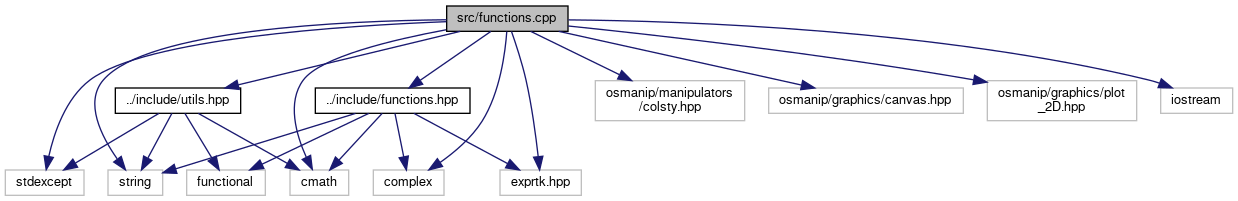
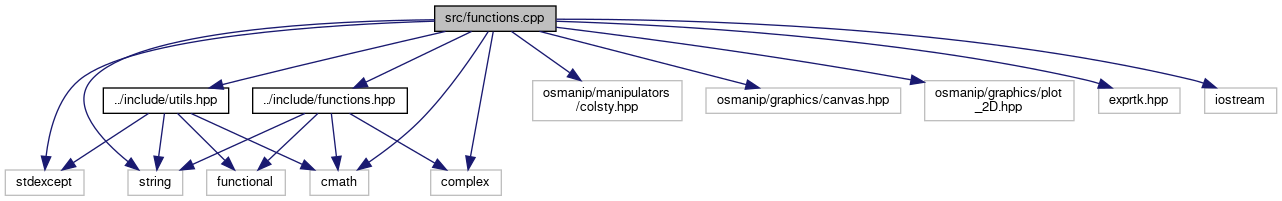
Update docs

diff --git a/docs/functions_8hpp_source.html b/docs/functions_8hpp_source.html
@@ -86,57 +86,56 @@ $(function() {
 <div class="line"><a name="l00013"></a><span class="lineno">   13</span>&#160;<span class="preprocessor">#include &lt;string&gt;</span></div>
 <div class="line"><a name="l00014"></a><span class="lineno">   14</span>&#160;<span class="preprocessor">#include &lt;cmath&gt;</span></div>
 <div class="line"><a name="l00015"></a><span class="lineno">   15</span>&#160;<span class="preprocessor">#include &lt;functional&gt;</span></div>
-<div class="line"><a name="l00016"></a><span class="lineno">   16</span>&#160;<span class="preprocessor">#include &lt;exprtk.hpp&gt;</span></div>
-<div class="line"><a name="l00017"></a><span class="lineno">   17</span>&#160; </div>
-<div class="line"><a name="l00018"></a><span class="lineno">   18</span>&#160;<span class="keyword">namespace </span><a class="code" href="namespacesafd.html">safd</a></div>
-<div class="line"><a name="l00019"></a><span class="lineno">   19</span>&#160; {</div>
-<div class="line"><a name="l00020"></a><span class="lineno">   20</span>&#160;  <span class="comment">//============================================</span></div>
-<div class="line"><a name="l00021"></a><span class="lineno">   21</span>&#160;  <span class="comment">//     Type aliases definition</span></div>
-<div class="line"><a name="l00022"></a><span class="lineno">   22</span>&#160;  <span class="comment">//============================================</span></div>
-<div class="line"><a name="l00023"></a><span class="lineno"><a class="line" href="namespacesafd.html#af18d6d8f6538e0141135af22cbf06139">   23</a></span>&#160;  <span class="keyword">using</span> <a class="code" href="namespacesafd.html#af18d6d8f6538e0141135af22cbf06139">two_param_func</a> = std::function&lt;double( <span class="keyword">const</span> <span class="keywordtype">int</span>&amp;, <span class="keyword">const</span> <span class="keywordtype">double</span>&amp; )&gt;;</div>
-<div class="line"><a name="l00024"></a><span class="lineno"><a class="line" href="namespacesafd.html#a145123804048dc5336c2e846dbf5fb31">   24</a></span>&#160;  <span class="keyword">using</span> <a class="code" href="namespacesafd.html#a145123804048dc5336c2e846dbf5fb31">four_param_func</a> = std::function&lt;double( <span class="keyword">const</span> std::string&amp;, <span class="keyword">const</span> <span class="keywordtype">int</span>&amp;, <span class="keyword">const</span> <span class="keywordtype">int</span>&amp;, <span class="keyword">const</span> <span class="keywordtype">double</span>&amp;, <span class="keyword">const</span> <span class="keywordtype">double</span>&amp; )&gt;;</div>
-<div class="line"><a name="l00025"></a><span class="lineno">   25</span>&#160; </div>
-<div class="line"><a name="l00026"></a><span class="lineno">   26</span>&#160;  <span class="comment">//============================================</span></div>
-<div class="line"><a name="l00027"></a><span class="lineno">   27</span>&#160;  <span class="comment">//     Global variables declaration</span></div>
-<div class="line"><a name="l00028"></a><span class="lineno">   28</span>&#160;  <span class="comment">//============================================</span></div>
-<div class="line"><a name="l00029"></a><span class="lineno"><a class="line" href="namespacesafd.html#a1e84d15b6feece8b88625a13e778156d">   29</a></span>&#160;  <span class="keyword">inline</span> <span class="keyword">const</span> <span class="keywordtype">double</span> <a class="code" href="namespacesafd.html#a1e84d15b6feece8b88625a13e778156d">reciprocalPi</a> = sqrt(1 / ( M_PI*4 ) );</div>
-<div class="line"><a name="l00030"></a><span class="lineno">   30</span>&#160; </div>
-<div class="line"><a name="l00031"></a><span class="lineno">   31</span>&#160;  <span class="comment">//============================================</span></div>
-<div class="line"><a name="l00032"></a><span class="lineno">   32</span>&#160;  <span class="comment">//     Functions declaration</span></div>
-<div class="line"><a name="l00033"></a><span class="lineno">   33</span>&#160;  <span class="comment">//============================================</span></div>
-<div class="line"><a name="l00034"></a><span class="lineno">   34</span>&#160;  </div>
-<div class="line"><a name="l00035"></a><span class="lineno">   35</span>&#160;  <span class="comment">//Legendre polynomials function:</span></div>
-<div class="line"><a name="l00036"></a><span class="lineno">   36</span>&#160;  <span class="keyword">extern</span> <span class="keywordtype">double</span> <a class="code" href="namespacesafd.html#ad98f25148508b1c2409f82b24230b1ac">Leg_pol</a>( <span class="keyword">const</span> <span class="keywordtype">int</span>&amp; a, <span class="keyword">const</span> <span class="keywordtype">double</span>&amp; x );</div>
-<div class="line"><a name="l00037"></a><span class="lineno">   37</span>&#160;  </div>
-<div class="line"><a name="l00038"></a><span class="lineno">   38</span>&#160;  <span class="comment">//Legendre associated function function:</span></div>
-<div class="line"><a name="l00039"></a><span class="lineno">   39</span>&#160;  <span class="keyword">extern</span> <span class="keywordtype">double</span> <a class="code" href="namespacesafd.html#aec90bc13ec65ee20a05844dc48b8a88f">Leg_func</a>( <span class="keyword">const</span> <span class="keywordtype">int</span>&amp; b, <span class="keyword">const</span> <span class="keywordtype">int</span>&amp; a, <span class="keyword">const</span> <span class="keywordtype">double</span>&amp; x );</div>
-<div class="line"><a name="l00040"></a><span class="lineno">   40</span>&#160;  </div>
-<div class="line"><a name="l00041"></a><span class="lineno">   41</span>&#160;  <span class="comment">//Spherical harmonics function:</span></div>
-<div class="line"><a name="l00042"></a><span class="lineno">   42</span>&#160;  <span class="keyword">extern</span> std::complex&lt;double&gt; <a class="code" href="namespacesafd.html#a758ac4642f176477df2b07c9522728dd">sph_arm</a>( <span class="keyword">const</span> <span class="keywordtype">int</span>&amp; m, <span class="keyword">const</span> <span class="keywordtype">int</span>&amp; l, <span class="keyword">const</span> <span class="keywordtype">double</span>&amp; theta, <span class="keyword">const</span> <span class="keywordtype">double</span>&amp; phi );</div>
-<div class="line"><a name="l00043"></a><span class="lineno">   43</span>&#160; </div>
-<div class="line"><a name="l00044"></a><span class="lineno">   44</span>&#160;  <span class="comment">//Parsed function:</span></div>
-<div class="line"><a name="l00045"></a><span class="lineno">   45</span>&#160;  <span class="keyword">extern</span> <span class="keywordtype">double</span> <a class="code" href="namespacesafd.html#a232d4d1ea5458710d60be29b98151b2f">parsed_f</a>( <span class="keyword">const</span> std::string&amp; expr, <span class="keywordtype">double</span> theta, <span class="keywordtype">double</span> phi );</div>
-<div class="line"><a name="l00046"></a><span class="lineno">   46</span>&#160;  </div>
-<div class="line"><a name="l00047"></a><span class="lineno">   47</span>&#160;  <span class="comment">//f(theta,phi) final function (which will be integrated), real part:</span></div>
-<div class="line"><a name="l00048"></a><span class="lineno">   48</span>&#160;  <span class="keyword">extern</span> <span class="keywordtype">double</span> <a class="code" href="namespacesafd.html#ac2a5ea1eaa1b6dd105c89eed6192f8c9">f_theta_phi_real</a>( <span class="keyword">const</span> std::string&amp; expr, <span class="keyword">const</span> <span class="keywordtype">int</span>&amp; m, <span class="keyword">const</span> <span class="keywordtype">int</span>&amp; l, <span class="keyword">const</span> <span class="keywordtype">double</span>&amp; theta, <span class="keyword">const</span> <span class="keywordtype">double</span>&amp; phi );</div>
-<div class="line"><a name="l00049"></a><span class="lineno">   49</span>&#160; </div>
-<div class="line"><a name="l00050"></a><span class="lineno">   50</span>&#160;  <span class="comment">//f(theta,phi) final function (which will be integrated), imaginary part:</span></div>
-<div class="line"><a name="l00051"></a><span class="lineno">   51</span>&#160;  <span class="keyword">extern</span> <span class="keywordtype">double</span> <a class="code" href="namespacesafd.html#af766ac12b4564ed1af366548ef9d4ea5">f_theta_phi_imag</a>( <span class="keyword">const</span> std::string&amp; expr, <span class="keyword">const</span> <span class="keywordtype">int</span>&amp; m, <span class="keyword">const</span> <span class="keywordtype">int</span>&amp; l, <span class="keyword">const</span> <span class="keywordtype">double</span>&amp; theta, <span class="keyword">const</span> <span class="keywordtype">double</span>&amp; phi );</div>
-<div class="line"><a name="l00052"></a><span class="lineno">   52</span>&#160;  </div>
-<div class="line"><a name="l00053"></a><span class="lineno">   53</span>&#160;  <span class="comment">//f_m_l coefficients representation:</span></div>
-<div class="line"><a name="l00054"></a><span class="lineno">   54</span>&#160;  <span class="keyword">extern</span> std::complex&lt;double&gt; <a class="code" href="namespacesafd.html#ace60dba2a96a269cbb84dbec8b9fc807">f_m_l</a>( <span class="keyword">const</span> std::string&amp; expr, <span class="keyword">const</span> <span class="keywordtype">int</span>&amp; m, <span class="keyword">const</span> <span class="keywordtype">int</span>&amp; l );</div>
-<div class="line"><a name="l00055"></a><span class="lineno">   55</span>&#160; </div>
-<div class="line"><a name="l00056"></a><span class="lineno">   56</span>&#160;  <span class="comment">//Function used to display the final result of the main program:</span></div>
-<div class="line"><a name="l00057"></a><span class="lineno">   57</span>&#160;  <span class="keyword">extern</span> <span class="keywordtype">void</span> <a class="code" href="namespacesafd.html#a5ea02ed9632434f9dfbc7ac0e33e38d7">displayer</a>( <span class="keyword">const</span> std::string&amp; equation, <span class="keyword">const</span> <span class="keywordtype">int</span>&amp; m, <span class="keyword">const</span> <span class="keywordtype">int</span>&amp; l );</div>
-<div class="line"><a name="l00058"></a><span class="lineno">   58</span>&#160; </div>
-<div class="line"><a name="l00059"></a><span class="lineno">   59</span>&#160;  <span class="comment">// Function used to plot the user-inserted function is input:</span></div>
-<div class="line"><a name="l00060"></a><span class="lineno">   60</span>&#160;  <span class="keyword">extern</span> <span class="keywordtype">void</span> <a class="code" href="namespacesafd.html#a762715ddd8cf72aead6b344b3645d9f1">plotter</a>( <span class="keyword">const</span> std::string&amp; func );</div>
-<div class="line"><a name="l00061"></a><span class="lineno">   61</span>&#160; }</div>
-<div class="line"><a name="l00062"></a><span class="lineno">   62</span>&#160;  </div>
-<div class="line"><a name="l00063"></a><span class="lineno">   63</span>&#160;<span class="preprocessor">#endif</span></div>
+<div class="line"><a name="l00016"></a><span class="lineno">   16</span>&#160; </div>
+<div class="line"><a name="l00017"></a><span class="lineno">   17</span>&#160;<span class="keyword">namespace </span><a class="code" href="namespacesafd.html">safd</a></div>
+<div class="line"><a name="l00018"></a><span class="lineno">   18</span>&#160; {</div>
+<div class="line"><a name="l00019"></a><span class="lineno">   19</span>&#160;  <span class="comment">//============================================</span></div>
+<div class="line"><a name="l00020"></a><span class="lineno">   20</span>&#160;  <span class="comment">//     Type aliases definition</span></div>
+<div class="line"><a name="l00021"></a><span class="lineno">   21</span>&#160;  <span class="comment">//============================================</span></div>
+<div class="line"><a name="l00022"></a><span class="lineno"><a class="line" href="namespacesafd.html#af18d6d8f6538e0141135af22cbf06139">   22</a></span>&#160;  <span class="keyword">using</span> <a class="code" href="namespacesafd.html#af18d6d8f6538e0141135af22cbf06139">two_param_func</a> = std::function&lt;double( <span class="keyword">const</span> <span class="keywordtype">int</span>&amp;, <span class="keyword">const</span> <span class="keywordtype">double</span>&amp; )&gt;;</div>
+<div class="line"><a name="l00023"></a><span class="lineno"><a class="line" href="namespacesafd.html#a145123804048dc5336c2e846dbf5fb31">   23</a></span>&#160;  <span class="keyword">using</span> <a class="code" href="namespacesafd.html#a145123804048dc5336c2e846dbf5fb31">four_param_func</a> = std::function&lt;double( <span class="keyword">const</span> std::string&amp;, <span class="keyword">const</span> <span class="keywordtype">int</span>&amp;, <span class="keyword">const</span> <span class="keywordtype">int</span>&amp;, <span class="keyword">const</span> <span class="keywordtype">double</span>&amp;, <span class="keyword">const</span> <span class="keywordtype">double</span>&amp; )&gt;;</div>
+<div class="line"><a name="l00024"></a><span class="lineno">   24</span>&#160; </div>
+<div class="line"><a name="l00025"></a><span class="lineno">   25</span>&#160;  <span class="comment">//============================================</span></div>
+<div class="line"><a name="l00026"></a><span class="lineno">   26</span>&#160;  <span class="comment">//     Global variables declaration</span></div>
+<div class="line"><a name="l00027"></a><span class="lineno">   27</span>&#160;  <span class="comment">//============================================</span></div>
+<div class="line"><a name="l00028"></a><span class="lineno"><a class="line" href="namespacesafd.html#a1e84d15b6feece8b88625a13e778156d">   28</a></span>&#160;  <span class="keyword">inline</span> <span class="keyword">const</span> <span class="keywordtype">double</span> <a class="code" href="namespacesafd.html#a1e84d15b6feece8b88625a13e778156d">reciprocalPi</a> = sqrt(1 / ( M_PI*4 ) );</div>
+<div class="line"><a name="l00029"></a><span class="lineno">   29</span>&#160; </div>
+<div class="line"><a name="l00030"></a><span class="lineno">   30</span>&#160;  <span class="comment">//============================================</span></div>
+<div class="line"><a name="l00031"></a><span class="lineno">   31</span>&#160;  <span class="comment">//     Functions declaration</span></div>
+<div class="line"><a name="l00032"></a><span class="lineno">   32</span>&#160;  <span class="comment">//============================================</span></div>
+<div class="line"><a name="l00033"></a><span class="lineno">   33</span>&#160;  </div>
+<div class="line"><a name="l00034"></a><span class="lineno">   34</span>&#160;  <span class="comment">//Legendre polynomials function:</span></div>
+<div class="line"><a name="l00035"></a><span class="lineno">   35</span>&#160;  <span class="keyword">extern</span> <span class="keywordtype">double</span> <a class="code" href="namespacesafd.html#ad98f25148508b1c2409f82b24230b1ac">Leg_pol</a>( <span class="keyword">const</span> <span class="keywordtype">int</span>&amp; a, <span class="keyword">const</span> <span class="keywordtype">double</span>&amp; x );</div>
+<div class="line"><a name="l00036"></a><span class="lineno">   36</span>&#160;  </div>
+<div class="line"><a name="l00037"></a><span class="lineno">   37</span>&#160;  <span class="comment">//Legendre associated function function:</span></div>
+<div class="line"><a name="l00038"></a><span class="lineno">   38</span>&#160;  <span class="keyword">extern</span> <span class="keywordtype">double</span> <a class="code" href="namespacesafd.html#aec90bc13ec65ee20a05844dc48b8a88f">Leg_func</a>( <span class="keyword">const</span> <span class="keywordtype">int</span>&amp; b, <span class="keyword">const</span> <span class="keywordtype">int</span>&amp; a, <span class="keyword">const</span> <span class="keywordtype">double</span>&amp; x );</div>
+<div class="line"><a name="l00039"></a><span class="lineno">   39</span>&#160;  </div>
+<div class="line"><a name="l00040"></a><span class="lineno">   40</span>&#160;  <span class="comment">//Spherical harmonics function:</span></div>
+<div class="line"><a name="l00041"></a><span class="lineno">   41</span>&#160;  <span class="keyword">extern</span> std::complex&lt;double&gt; <a class="code" href="namespacesafd.html#a758ac4642f176477df2b07c9522728dd">sph_arm</a>( <span class="keyword">const</span> <span class="keywordtype">int</span>&amp; m, <span class="keyword">const</span> <span class="keywordtype">int</span>&amp; l, <span class="keyword">const</span> <span class="keywordtype">double</span>&amp; theta, <span class="keyword">const</span> <span class="keywordtype">double</span>&amp; phi );</div>
+<div class="line"><a name="l00042"></a><span class="lineno">   42</span>&#160; </div>
+<div class="line"><a name="l00043"></a><span class="lineno">   43</span>&#160;  <span class="comment">//Parsed function:</span></div>
+<div class="line"><a name="l00044"></a><span class="lineno">   44</span>&#160;  <span class="keyword">extern</span> <span class="keywordtype">double</span> <a class="code" href="namespacesafd.html#a232d4d1ea5458710d60be29b98151b2f">parsed_f</a>( <span class="keyword">const</span> std::string&amp; expr, <span class="keywordtype">double</span> theta, <span class="keywordtype">double</span> phi );</div>
+<div class="line"><a name="l00045"></a><span class="lineno">   45</span>&#160;  </div>
+<div class="line"><a name="l00046"></a><span class="lineno">   46</span>&#160;  <span class="comment">//f(theta,phi) final function (which will be integrated), real part:</span></div>
+<div class="line"><a name="l00047"></a><span class="lineno">   47</span>&#160;  <span class="keyword">extern</span> <span class="keywordtype">double</span> <a class="code" href="namespacesafd.html#ac2a5ea1eaa1b6dd105c89eed6192f8c9">f_theta_phi_real</a>( <span class="keyword">const</span> std::string&amp; expr, <span class="keyword">const</span> <span class="keywordtype">int</span>&amp; m, <span class="keyword">const</span> <span class="keywordtype">int</span>&amp; l, <span class="keyword">const</span> <span class="keywordtype">double</span>&amp; theta, <span class="keyword">const</span> <span class="keywordtype">double</span>&amp; phi );</div>
+<div class="line"><a name="l00048"></a><span class="lineno">   48</span>&#160; </div>
+<div class="line"><a name="l00049"></a><span class="lineno">   49</span>&#160;  <span class="comment">//f(theta,phi) final function (which will be integrated), imaginary part:</span></div>
+<div class="line"><a name="l00050"></a><span class="lineno">   50</span>&#160;  <span class="keyword">extern</span> <span class="keywordtype">double</span> <a class="code" href="namespacesafd.html#af766ac12b4564ed1af366548ef9d4ea5">f_theta_phi_imag</a>( <span class="keyword">const</span> std::string&amp; expr, <span class="keyword">const</span> <span class="keywordtype">int</span>&amp; m, <span class="keyword">const</span> <span class="keywordtype">int</span>&amp; l, <span class="keyword">const</span> <span class="keywordtype">double</span>&amp; theta, <span class="keyword">const</span> <span class="keywordtype">double</span>&amp; phi );</div>
+<div class="line"><a name="l00051"></a><span class="lineno">   51</span>&#160;  </div>
+<div class="line"><a name="l00052"></a><span class="lineno">   52</span>&#160;  <span class="comment">//f_m_l coefficients representation:</span></div>
+<div class="line"><a name="l00053"></a><span class="lineno">   53</span>&#160;  <span class="keyword">extern</span> std::complex&lt;double&gt; <a class="code" href="namespacesafd.html#ace60dba2a96a269cbb84dbec8b9fc807">f_m_l</a>( <span class="keyword">const</span> std::string&amp; expr, <span class="keyword">const</span> <span class="keywordtype">int</span>&amp; m, <span class="keyword">const</span> <span class="keywordtype">int</span>&amp; l );</div>
+<div class="line"><a name="l00054"></a><span class="lineno">   54</span>&#160; </div>
+<div class="line"><a name="l00055"></a><span class="lineno">   55</span>&#160;  <span class="comment">//Function used to display the final result of the main program:</span></div>
+<div class="line"><a name="l00056"></a><span class="lineno">   56</span>&#160;  <span class="keyword">extern</span> <span class="keywordtype">void</span> <a class="code" href="namespacesafd.html#a5ea02ed9632434f9dfbc7ac0e33e38d7">displayer</a>( <span class="keyword">const</span> std::string&amp; equation, <span class="keyword">const</span> <span class="keywordtype">int</span>&amp; m, <span class="keyword">const</span> <span class="keywordtype">int</span>&amp; l );</div>
+<div class="line"><a name="l00057"></a><span class="lineno">   57</span>&#160; </div>
+<div class="line"><a name="l00058"></a><span class="lineno">   58</span>&#160;  <span class="comment">// Function used to plot the user-inserted function is input:</span></div>
+<div class="line"><a name="l00059"></a><span class="lineno">   59</span>&#160;  <span class="keyword">extern</span> <span class="keywordtype">void</span> <a class="code" href="namespacesafd.html#a762715ddd8cf72aead6b344b3645d9f1">plotter</a>( <span class="keyword">const</span> std::string&amp; func );</div>
+<div class="line"><a name="l00060"></a><span class="lineno">   60</span>&#160; }</div>
+<div class="line"><a name="l00061"></a><span class="lineno">   61</span>&#160;  </div>
+<div class="line"><a name="l00062"></a><span class="lineno">   62</span>&#160;<span class="preprocessor">#endif</span></div>
 <div class="ttc" id="anamespacesafd_html"><div class="ttname"><a href="namespacesafd.html">safd</a></div><div class="ttdef"><b>Definition:</b> functions.cpp:23</div></div>
-<div class="ttc" id="anamespacesafd_html_a145123804048dc5336c2e846dbf5fb31"><div class="ttname"><a href="namespacesafd.html#a145123804048dc5336c2e846dbf5fb31">safd::four_param_func</a></div><div class="ttdeci">std::function&lt; double(const std::string &amp;, const int &amp;, const int &amp;, const double &amp;, const double &amp;)&gt; four_param_func</div><div class="ttdef"><b>Definition:</b> functions.hpp:24</div></div>
-<div class="ttc" id="anamespacesafd_html_a1e84d15b6feece8b88625a13e778156d"><div class="ttname"><a href="namespacesafd.html#a1e84d15b6feece8b88625a13e778156d">safd::reciprocalPi</a></div><div class="ttdeci">const double reciprocalPi</div><div class="ttdef"><b>Definition:</b> functions.hpp:29</div></div>
+<div class="ttc" id="anamespacesafd_html_a145123804048dc5336c2e846dbf5fb31"><div class="ttname"><a href="namespacesafd.html#a145123804048dc5336c2e846dbf5fb31">safd::four_param_func</a></div><div class="ttdeci">std::function&lt; double(const std::string &amp;, const int &amp;, const int &amp;, const double &amp;, const double &amp;)&gt; four_param_func</div><div class="ttdef"><b>Definition:</b> functions.hpp:23</div></div>
+<div class="ttc" id="anamespacesafd_html_a1e84d15b6feece8b88625a13e778156d"><div class="ttname"><a href="namespacesafd.html#a1e84d15b6feece8b88625a13e778156d">safd::reciprocalPi</a></div><div class="ttdeci">const double reciprocalPi</div><div class="ttdef"><b>Definition:</b> functions.hpp:28</div></div>
 <div class="ttc" id="anamespacesafd_html_a232d4d1ea5458710d60be29b98151b2f"><div class="ttname"><a href="namespacesafd.html#a232d4d1ea5458710d60be29b98151b2f">safd::parsed_f</a></div><div class="ttdeci">double parsed_f(const std::string &amp;expr, double theta, double phi)</div><div class="ttdoc">Function f(theta,phi) obtained with parsing.</div><div class="ttdef"><b>Definition:</b> functions.cpp:127</div></div>
 <div class="ttc" id="anamespacesafd_html_a5ea02ed9632434f9dfbc7ac0e33e38d7"><div class="ttname"><a href="namespacesafd.html#a5ea02ed9632434f9dfbc7ac0e33e38d7">safd::displayer</a></div><div class="ttdeci">void displayer(const std::string &amp;equation, const int &amp;m, const int &amp;l)</div><div class="ttdoc">Function used to display the final result of the main program. NB: used in main program only.</div><div class="ttdef"><b>Definition:</b> functions.cpp:248</div></div>
 <div class="ttc" id="anamespacesafd_html_a758ac4642f176477df2b07c9522728dd"><div class="ttname"><a href="namespacesafd.html#a758ac4642f176477df2b07c9522728dd">safd::sph_arm</a></div><div class="ttdeci">std::complex&lt; double &gt; sph_arm(const int &amp;m, const int &amp;l, const double &amp;theta, const double &amp;phi)</div><div class="ttdoc">Function used to calculate spherical harmonics functions with indexes &quot;m&quot; and &quot;l&quot; and variables &quot;thet...</div><div class="ttdef"><b>Definition:</b> functions.cpp:91</div></div>
@@ -145,7 +144,7 @@ $(function() {
 <div class="ttc" id="anamespacesafd_html_ace60dba2a96a269cbb84dbec8b9fc807"><div class="ttname"><a href="namespacesafd.html#ace60dba2a96a269cbb84dbec8b9fc807">safd::f_m_l</a></div><div class="ttdeci">std::complex&lt; double &gt; f_m_l(const std::string &amp;expr, const int &amp;m, const int &amp;l)</div><div class="ttdoc">This function returns the final f_m_l coefficients.</div><div class="ttdef"><b>Definition:</b> functions.cpp:181</div></div>
 <div class="ttc" id="anamespacesafd_html_ad98f25148508b1c2409f82b24230b1ac"><div class="ttname"><a href="namespacesafd.html#ad98f25148508b1c2409f82b24230b1ac">safd::Leg_pol</a></div><div class="ttdeci">double Leg_pol(const int &amp;a, const double &amp;x)</div><div class="ttdoc">Function used to calculate Legendre polynomials with index &quot;a&quot; and variable &quot;x&quot;.</div><div class="ttdef"><b>Definition:</b> functions.cpp:34</div></div>
 <div class="ttc" id="anamespacesafd_html_aec90bc13ec65ee20a05844dc48b8a88f"><div class="ttname"><a href="namespacesafd.html#aec90bc13ec65ee20a05844dc48b8a88f">safd::Leg_func</a></div><div class="ttdeci">double Leg_func(const int &amp;b, const int &amp;a, const double &amp;x)</div><div class="ttdoc">Function used to calculate Legendre associated functions with indexes &quot;a&quot; and &quot;b&quot; and variable &quot;x&quot;....</div><div class="ttdef"><b>Definition:</b> functions.cpp:63</div></div>
-<div class="ttc" id="anamespacesafd_html_af18d6d8f6538e0141135af22cbf06139"><div class="ttname"><a href="namespacesafd.html#af18d6d8f6538e0141135af22cbf06139">safd::two_param_func</a></div><div class="ttdeci">std::function&lt; double(const int &amp;, const double &amp;)&gt; two_param_func</div><div class="ttdef"><b>Definition:</b> functions.hpp:23</div></div>
+<div class="ttc" id="anamespacesafd_html_af18d6d8f6538e0141135af22cbf06139"><div class="ttname"><a href="namespacesafd.html#af18d6d8f6538e0141135af22cbf06139">safd::two_param_func</a></div><div class="ttdeci">std::function&lt; double(const int &amp;, const double &amp;)&gt; two_param_func</div><div class="ttdef"><b>Definition:</b> functions.hpp:22</div></div>
 <div class="ttc" id="anamespacesafd_html_af766ac12b4564ed1af366548ef9d4ea5"><div class="ttname"><a href="namespacesafd.html#af766ac12b4564ed1af366548ef9d4ea5">safd::f_theta_phi_imag</a></div><div class="ttdeci">double f_theta_phi_imag(const std::string &amp;expr, const int &amp;m, const int &amp;l, const double &amp;theta, const double &amp;phi)</div><div class="ttdef"><b>Definition:</b> functions.cpp:165</div></div>
 </div><!-- fragment --></div><!-- contents -->
 <!-- start footer part -->

diff --git a/docs/utils_8hpp_source.html b/docs/utils_8hpp_source.html
@@ -132,7 +132,7 @@ $(function() {
 <div class="ttc" id="anamespacesafd_html"><div class="ttname"><a href="namespacesafd.html">safd</a></div><div class="ttdef"><b>Definition:</b> functions.cpp:23</div></div>
 <div class="ttc" id="anamespacesafd_html_a04aa92a80eac87ee3b77571bbe1db80f"><div class="ttname"><a href="namespacesafd.html#a04aa92a80eac87ee3b77571bbe1db80f">safd::h</a></div><div class="ttdeci">double h(const int &amp;n, const double &amp;x_0)</div><div class="ttdoc">Function used to return the derivative step-size.</div><div class="ttdef"><b>Definition:</b> utils.cpp:30</div></div>
 <div class="ttc" id="anamespacesafd_html_a117d10321011b027c242cd72e5618cd6"><div class="ttname"><a href="namespacesafd.html#a117d10321011b027c242cd72e5618cd6">safd::y_fin</a></div><div class="ttdeci">constexpr double y_fin</div><div class="ttdef"><b>Definition:</b> utils.hpp:35</div></div>
-<div class="ttc" id="anamespacesafd_html_a145123804048dc5336c2e846dbf5fb31"><div class="ttname"><a href="namespacesafd.html#a145123804048dc5336c2e846dbf5fb31">safd::four_param_func</a></div><div class="ttdeci">std::function&lt; double(const std::string &amp;, const int &amp;, const int &amp;, const double &amp;, const double &amp;)&gt; four_param_func</div><div class="ttdef"><b>Definition:</b> functions.hpp:24</div></div>
+<div class="ttc" id="anamespacesafd_html_a145123804048dc5336c2e846dbf5fb31"><div class="ttname"><a href="namespacesafd.html#a145123804048dc5336c2e846dbf5fb31">safd::four_param_func</a></div><div class="ttdeci">std::function&lt; double(const std::string &amp;, const int &amp;, const int &amp;, const double &amp;, const double &amp;)&gt; four_param_func</div><div class="ttdef"><b>Definition:</b> functions.hpp:23</div></div>
 <div class="ttc" id="anamespacesafd_html_a2f3da2c6a594bdaf5148d9a24c1f4f65"><div class="ttname"><a href="namespacesafd.html#a2f3da2c6a594bdaf5148d9a24c1f4f65">safd::abort_this</a></div><div class="ttdeci">char abort_this(char letter)</div><div class="ttdoc">Function used to modify an input and return it. NB: used in main program only.</div><div class="ttdef"><b>Definition:</b> utils.cpp:160</div></div>
 <div class="ttc" id="anamespacesafd_html_a3e4163315e9d2f1ed03acab43a8daf9e"><div class="ttname"><a href="namespacesafd.html#a3e4163315e9d2f1ed03acab43a8daf9e">safd::h_x</a></div><div class="ttdeci">constexpr double h_x</div><div class="ttdef"><b>Definition:</b> utils.hpp:33</div></div>
 <div class="ttc" id="anamespacesafd_html_a7246abd6f45f4089aea66501d9c5daa6"><div class="ttname"><a href="namespacesafd.html#a7246abd6f45f4089aea66501d9c5daa6">safd::x_fin</a></div><div class="ttdeci">constexpr double x_fin</div><div class="ttdef"><b>Definition:</b> utils.hpp:32</div></div>
@@ -141,7 +141,7 @@ $(function() {
 <div class="ttc" id="anamespacesafd_html_aacf7ce89ac5738f7660567520f818513"><div class="ttname"><a href="namespacesafd.html#aacf7ce89ac5738f7660567520f818513">safd::integral</a></div><div class="ttdeci">double integral(const four_param_func &amp;f, const std::string &amp;expr, const int &amp;m, const int &amp;l)</div><div class="ttdoc">Function used to integrate a function f(x,y), depending on two indexes m and l, in x = theta and y = ...</div><div class="ttdef"><b>Definition:</b> utils.cpp:85</div></div>
 <div class="ttc" id="anamespacesafd_html_ad3f796f4494643d6894f554d28fb7403"><div class="ttname"><a href="namespacesafd.html#ad3f796f4494643d6894f554d28fb7403">safd::x_in</a></div><div class="ttdeci">constexpr double x_in</div><div class="ttdef"><b>Definition:</b> utils.hpp:31</div></div>
 <div class="ttc" id="anamespacesafd_html_ad98de0a8a50f46bc0e448c14e92bc473"><div class="ttname"><a href="namespacesafd.html#ad98de0a8a50f46bc0e448c14e92bc473">safd::initializer</a></div><div class="ttdeci">void initializer(std::string &amp;equation, int &amp;m, int &amp;l)</div><div class="ttdoc">Function used to initialize values of main program input. NB: used in main program only.</div><div class="ttdef"><b>Definition:</b> utils.cpp:140</div></div>
-<div class="ttc" id="anamespacesafd_html_af18d6d8f6538e0141135af22cbf06139"><div class="ttname"><a href="namespacesafd.html#af18d6d8f6538e0141135af22cbf06139">safd::two_param_func</a></div><div class="ttdeci">std::function&lt; double(const int &amp;, const double &amp;)&gt; two_param_func</div><div class="ttdef"><b>Definition:</b> functions.hpp:23</div></div>
+<div class="ttc" id="anamespacesafd_html_af18d6d8f6538e0141135af22cbf06139"><div class="ttname"><a href="namespacesafd.html#af18d6d8f6538e0141135af22cbf06139">safd::two_param_func</a></div><div class="ttdeci">std::function&lt; double(const int &amp;, const double &amp;)&gt; two_param_func</div><div class="ttdef"><b>Definition:</b> functions.hpp:22</div></div>
 <div class="ttc" id="anamespacesafd_html_af9e7e1d92f7068a40174675d123182ed"><div class="ttname"><a href="namespacesafd.html#af9e7e1d92f7068a40174675d123182ed">safd::STEP_SIZE</a></div><div class="ttdeci">const double STEP_SIZE</div><div class="ttdef"><b>Definition:</b> utils.hpp:30</div></div>
 <div class="ttc" id="anamespacesafd_html_afd5b9ac54cadeb65d7fbc9a0d109cdaf"><div class="ttname"><a href="namespacesafd.html#afd5b9ac54cadeb65d7fbc9a0d109cdaf">safd::y_in</a></div><div class="ttdeci">constexpr double y_in</div><div class="ttdef"><b>Definition:</b> utils.hpp:34</div></div>
 </div><!-- fragment --></div><!-- contents -->

diff --git a/docs/functions_8cpp.html b/docs/functions_8cpp.html
@@ -90,19 +90,19 @@ Include dependency graph for functions.cpp:</div>
 <div class="dyncontent">
 <div class="center"><img src="functions_8cpp__incl.png" border="0" usemap="#asrc_2functions_8cpp" alt=""/></div>
 <map name="asrc_2functions_8cpp" id="asrc_2functions_8cpp">
-<area shape="rect" title=" " alt="" coords="447,5,568,32"/>
-<area shape="rect" href="utils_8hpp.html" title=" " alt="" coords="115,87,241,114"/>
-<area shape="rect" title=" " alt="" coords="108,169,163,196"/>
+<area shape="rect" title=" " alt="" coords="435,5,556,32"/>
+<area shape="rect" href="utils_8hpp.html" title=" " alt="" coords="103,87,229,114"/>
+<area shape="rect" title=" " alt="" coords="128,169,183,196"/>
 <area shape="rect" title=" " alt="" coords="5,169,84,196"/>
-<area shape="rect" title=" " alt="" coords="290,169,349,196"/>
-<area shape="rect" href="functions_8hpp.html" title=" " alt="" coords="315,87,470,114"/>
-<area shape="rect" title=" " alt="" coords="373,169,444,196"/>
-<area shape="rect" title=" " alt="" coords="500,169,581,196"/>
-<area shape="rect" title=" " alt="" coords="595,80,745,121"/>
-<area shape="rect" title=" " alt="" coords="769,87,963,114"/>
-<area shape="rect" title=" " alt="" coords="987,80,1137,121"/>
-<area shape="rect" title=" " alt="" coords="1161,87,1233,114"/>
-<area shape="rect" title=" " alt="" coords="187,169,265,196"/>
+<area shape="rect" title=" " alt="" coords="310,169,369,196"/>
+<area shape="rect" href="functions_8hpp.html" title=" " alt="" coords="253,87,407,114"/>
+<area shape="rect" title=" " alt="" coords="431,169,501,196"/>
+<area shape="rect" title=" " alt="" coords="533,80,682,121"/>
+<area shape="rect" title=" " alt="" coords="706,87,901,114"/>
+<area shape="rect" title=" " alt="" coords="925,80,1074,121"/>
+<area shape="rect" title=" " alt="" coords="1099,87,1180,114"/>
+<area shape="rect" title=" " alt="" coords="1205,87,1277,114"/>
+<area shape="rect" title=" " alt="" coords="207,169,285,196"/>
 </map>
 </div>
 </div><table class="memberdecls">

diff --git a/docs/functions_8hpp.html b/docs/functions_8hpp.html
@@ -80,18 +80,16 @@ $(function() {
 <code>#include &lt;string&gt;</code><br />
 <code>#include &lt;cmath&gt;</code><br />
 <code>#include &lt;functional&gt;</code><br />
-<code>#include &lt;exprtk.hpp&gt;</code><br />
 </div><div class="textblock"><div class="dynheader">
 Include dependency graph for functions.hpp:</div>
 <div class="dyncontent">
 <div class="center"><img src="functions_8hpp__incl.png" border="0" usemap="#ainclude_2functions_8hpp" alt=""/></div>
 <map name="ainclude_2functions_8hpp" id="ainclude_2functions_8hpp">
-<area shape="rect" title=" " alt="" coords="137,5,281,32"/>
+<area shape="rect" title=" " alt="" coords="95,5,239,32"/>
 <area shape="rect" title=" " alt="" coords="5,80,76,107"/>
 <area shape="rect" title=" " alt="" coords="100,80,155,107"/>
 <area shape="rect" title=" " alt="" coords="179,80,238,107"/>
 <area shape="rect" title=" " alt="" coords="263,80,341,107"/>
-<area shape="rect" title=" " alt="" coords="365,80,447,107"/>
 </map>
 </div>
 </div><div class="textblock"><div class="dynheader">
